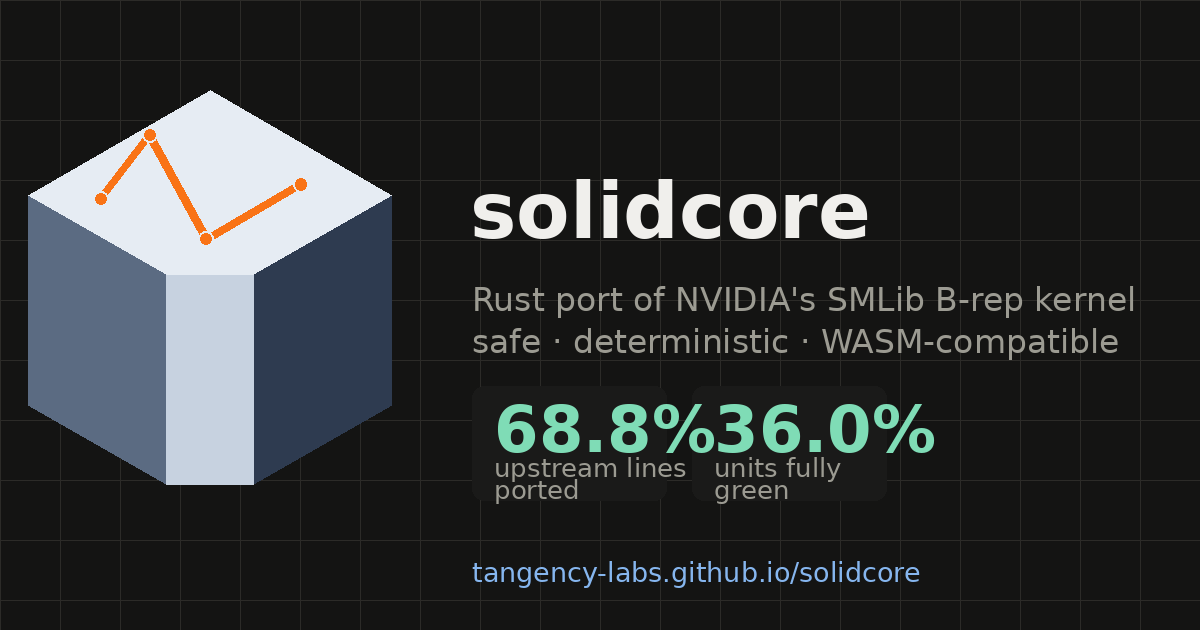
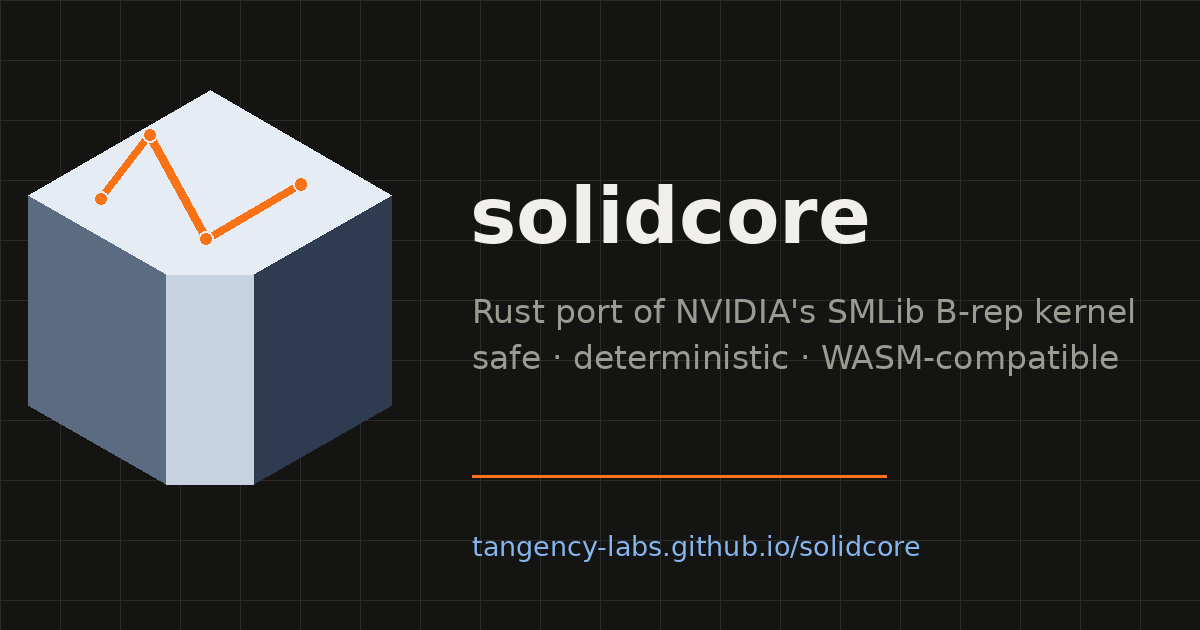
site: address review — per-page og:url, remove stale KPI numbers from og card
- og:url is now the page's own canonical URL (root, units/index, every
  unit page, issues, ssi) so shares of unit pages don't merge into the
  root page's analytics.
- og-image.png no longer carries the 68.8%/36.0% progress numbers: they
  go stale with every merge and preview caches hold old images. The card
  now shows only logo, name, tagline and URL (regen from gen-og-image.py).

diff --git a/site/build.py b/site/build.py
@@ -271,7 +271,7 @@ def parse_issues():
 
 # ---------------------------------------------------------------- page shell
 
-def page(title, body, depth, nav, head_sha, head_date, description=""):
+def page(title, body, depth, nav, head_sha, head_date, description="", path=""):
     up = "../" * depth
     links = [("index.html", "Overview", "overview"), ("units/index.html", "Units", "units"),
              ("issues.html", "Upstream issues", "issues"), ("ssi.html", "SSI corpus", "ssi")]
@@ -280,6 +280,7 @@ def page(title, body, depth, nav, head_sha, head_date, description=""):
         for href, label, key in links)
     short = head_sha[:8]
     site_url = f"https://{REPO.split('/')[0]}.github.io/{REPO.split('/')[1]}/"
+    canon_url = f"{site_url}{path}" if path else site_url
     return f"""<!doctype html>
 <html lang="en">
 <head>
@@ -290,7 +291,7 @@ def page(title, body, depth, nav, head_sha, head_date, description=""):
 <meta name="theme-color" content="#141413">
 <meta property="og:type" content="website">
 <meta property="og:site_name" content="solidcore">
-<meta property="og:url" content="{site_url}">
+<meta property="og:url" content="{canon_url}">
 <meta property="og:title" content="{esc(title)}">
 <meta property="og:description" content="{esc(description or title)}">
 <meta property="og:image" content="{site_url}assets/og-image.png">
@@ -570,7 +571,7 @@ counts). Click a column heading to sort.</p>
 <th data-sort="num">Deferred</th><th data-sort="num">Failed</th><th>Top blockers</th></tr></thead>
 <tbody>{''.join(rows)}</tbody></table></div>
 """
-    write("units/index.html", P("Units · solidcore", body, 1, "units"))
+    write("units/index.html", P("Units · solidcore", body, 1, "units", path="units/index.html"))
 
     # ---- unit pages
     def unit_links(ids):
@@ -662,7 +663,7 @@ counts). Click a column heading to sort.</p>
 <h2>Upstream tests reaching this unit</h2>
 <p class="tests">{tests}</p>
 """
-        write(f"units/{uid}.html", P(f"{uid} · solidcore", body, 1, "units"))
+        write(f"units/{uid}.html", P(f"{uid} · solidcore", body, 1, "units", path=f"units/{uid}.html"))
 
     # ---- issues
     sc = collections.Counter(e["series"] for e in issues)
@@ -701,7 +702,7 @@ rendered as written: {', '.join(f'{sc[k]} {k}' for k in SERIES if sc[k])}; {cc['
 </div>
 <div id="issues">{''.join(arts)}</div>
 """
-    write("issues.html", P("Upstream issues · solidcore", body, 0, "issues"))
+    write("issues.html", P("Upstream issues · solidcore", body, 0, "issues", path="issues.html"))
 
     # ---- ssi corpus
     cases = sorted(ssi.get("cases", []), key=lambda c: c["id"])
@@ -756,7 +757,7 @@ the C++ result's.</p>
 <th data-sort="text">Surfaces</th><th data-sort="text">C++</th><th data-sort="text">Rust</th><th data-sort="text">Parity</th><th>Flags</th></tr></thead>
 <tbody>{''.join(crow)}</tbody></table></div>
 """
-    write("ssi.html", P("SSI corpus · solidcore", body, 0, "ssi"))
+    write("ssi.html", P("SSI corpus · solidcore", body, 0, "ssi", path="ssi.html"))
     return {"units": len(units), "issues": len(issues), "ssi": len(cases), "timeline": len(points),
             "seconds": time.time() - t_start}
 

diff --git a/site/gen-og-image.py b/site/gen-og-image.py
@@ -9,7 +9,9 @@ site/assets/og-image.png. Run from the repo root:
 The card uses the site's own design tokens (site/assets/style.css) and the
 repo's brand mark (assets/logo.svg): dark #141413 ground, light #f0efec text,
 brand steel/ice quads (#5B6B82, #2E3B50, #E6ECF3, #C7D2E0) with the orange
-#F97316 progress polyline, green #7fdcb6 KPIs, and the muted #9c9b92 caption.
+#F97316 progress polyline and the muted #9c9b92 caption. Intentionally
+number-free: live progress percentages go stale and preview caches hold old
+images, so the card carries only logo, name, taglines, and URL.
 """
 import pathlib
 
@@ -94,26 +96,17 @@ def main():
     # Text block on the right
     f_title = font(78, bold=True)
     f_sub = font(33)
-    f_stat = font(64, bold=True)
-    f_lbl = font(26)
     f_url = font(27)
 
-    d.text((470, 165), "solidcore", font=f_title, fill=TEXT)
-    d.text((472, 280), "Rust port of NVIDIA's SMLib B-rep kernel", font=f_sub, fill=MUTED)
-    d.text((472, 322), "safe · deterministic · WASM-compatible", font=f_sub, fill=MUTED)
+    d.text((470, 170), "solidcore", font=f_title, fill=TEXT)
+    d.text((472, 292), "Rust port of NVIDIA's SMLib B-rep kernel", font=f_sub, fill=MUTED)
+    d.text((472, 338), "safe · deterministic · WASM-compatible", font=f_sub, fill=MUTED)
 
-    # KPI chips
-    rrect(d, [472, 386, 666, 500], 12, "#1a1a19")
-    rrect(d, [692, 386, 886, 500], 12, "#1a1a19")
-    d.text((494, 392), "68.8%", font=f_stat, fill=GREEN)
-    d.text((494, 452), "upstream lines", font=f_lbl, fill=MUTED)
-    d.text((494, 474), "ported", font=f_lbl, fill=MUTED)
-    d.text((714, 392), "36.0%", font=f_stat, fill=GREEN)
-    d.text((714, 452), "units fully", font=f_lbl, fill=MUTED)
-    d.text((714, 474), "green", font=f_lbl, fill=MUTED)
+    # Accent rule
+    d.line([(472, 476), (886, 476)], fill=ACCENT, width=3)
 
     # URL footer
-    d.text((472, 556), "tangency-labs.github.io/solidcore", font=f_url, fill=LINK)
+    d.text((472, 530), "tangency-labs.github.io/solidcore", font=f_url, fill=LINK)
 
     OUT.parent.mkdir(parents=True, exist_ok=True)
     img.save(OUT, "PNG")
